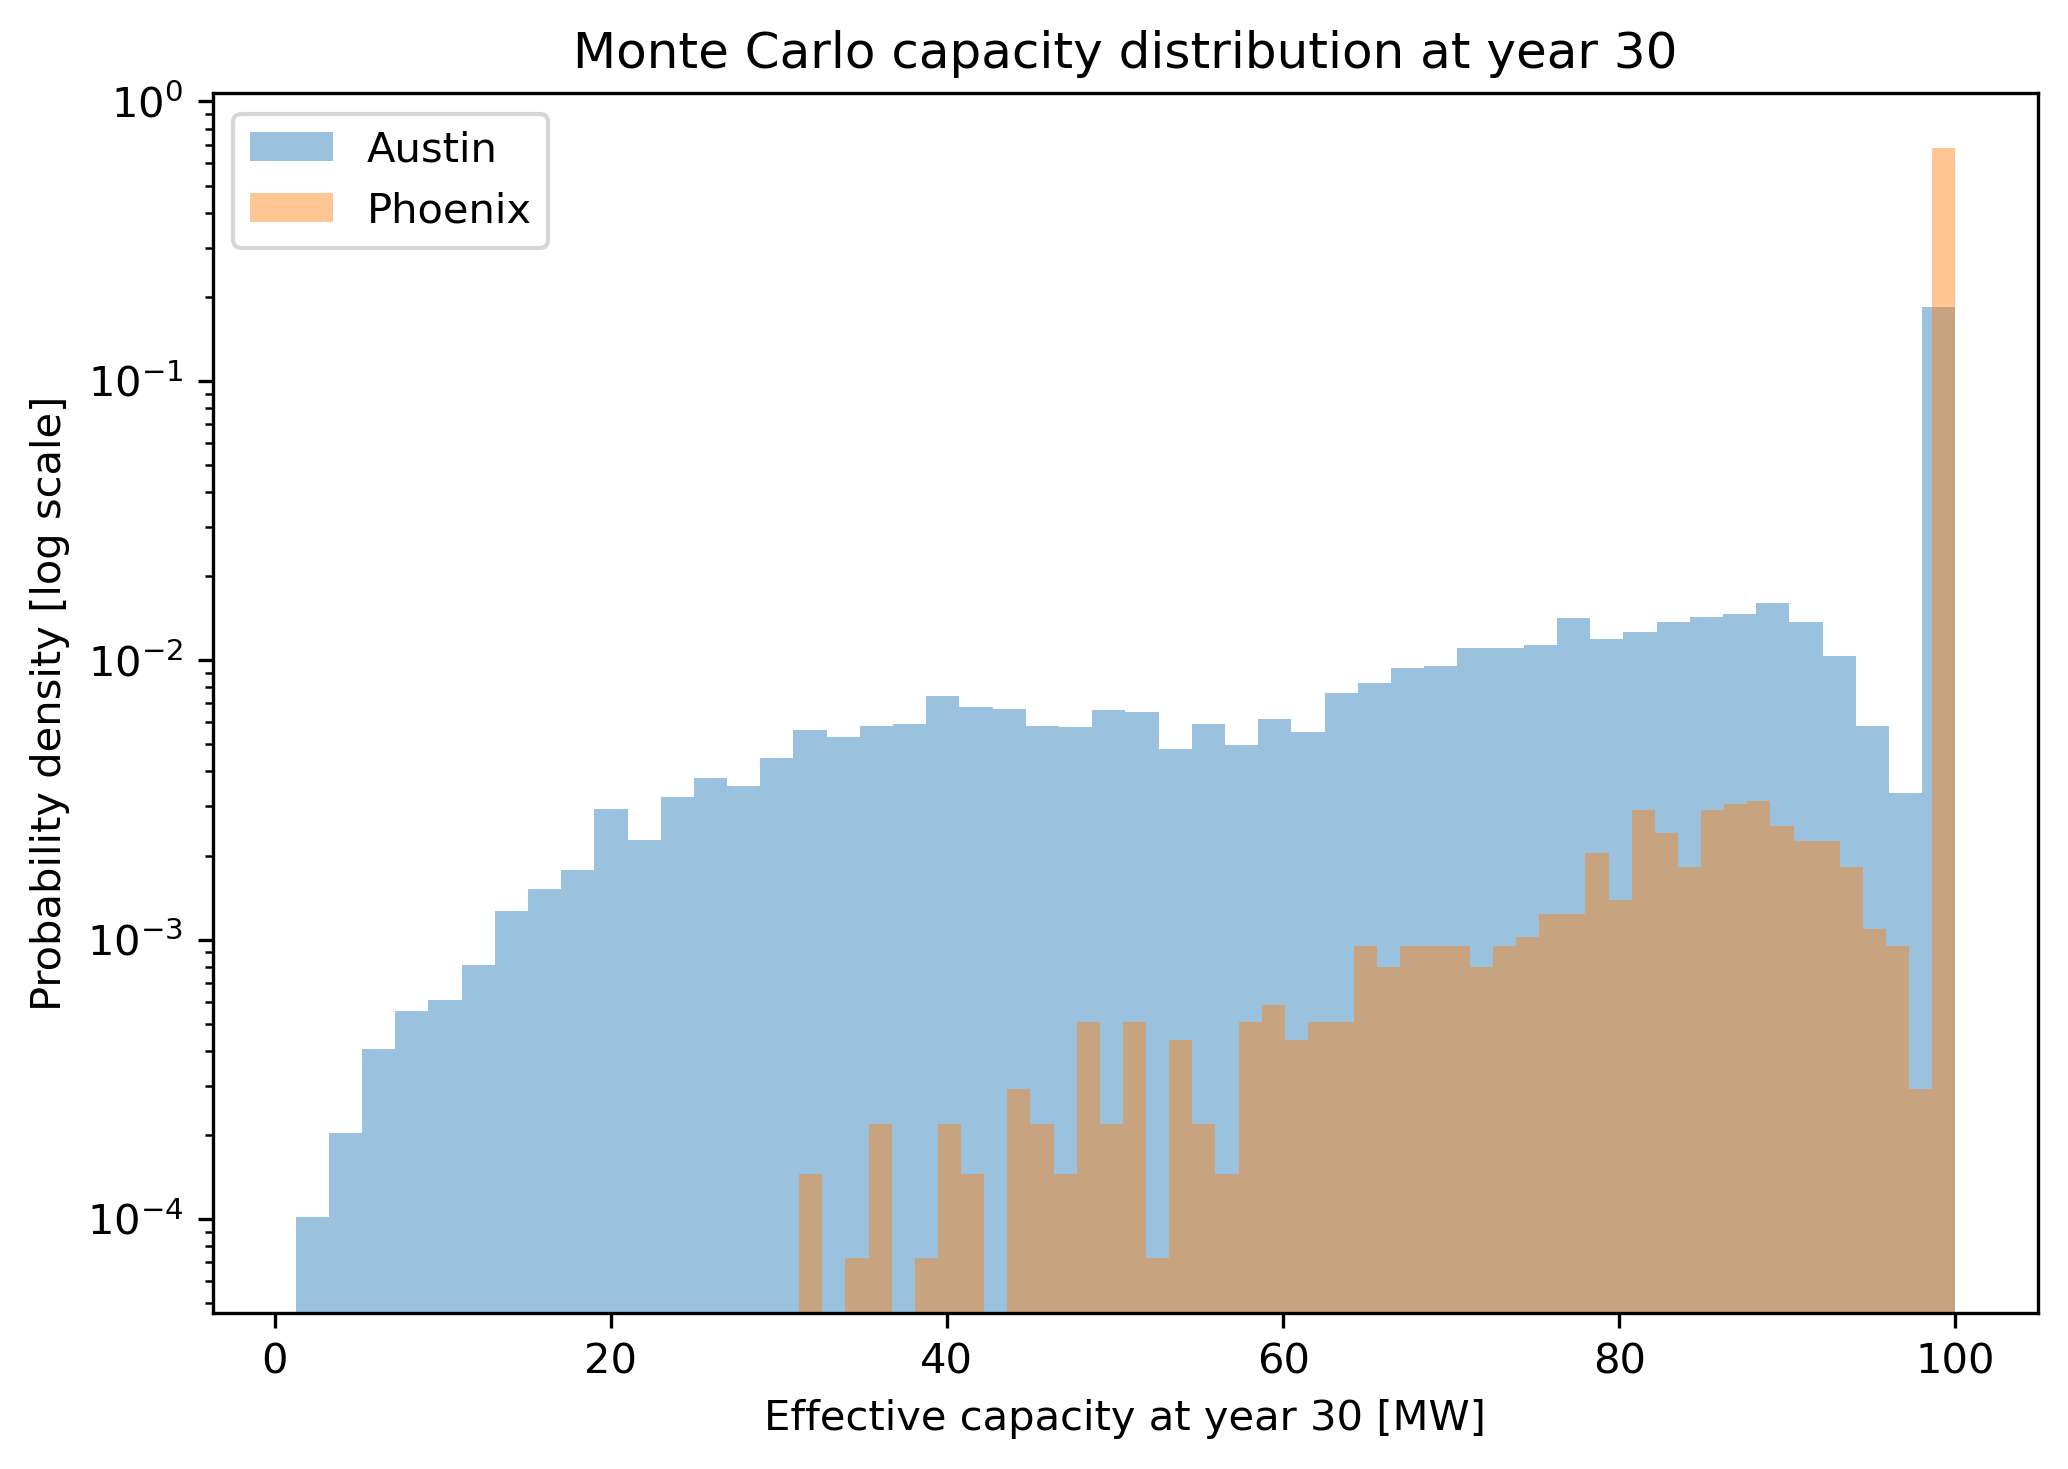
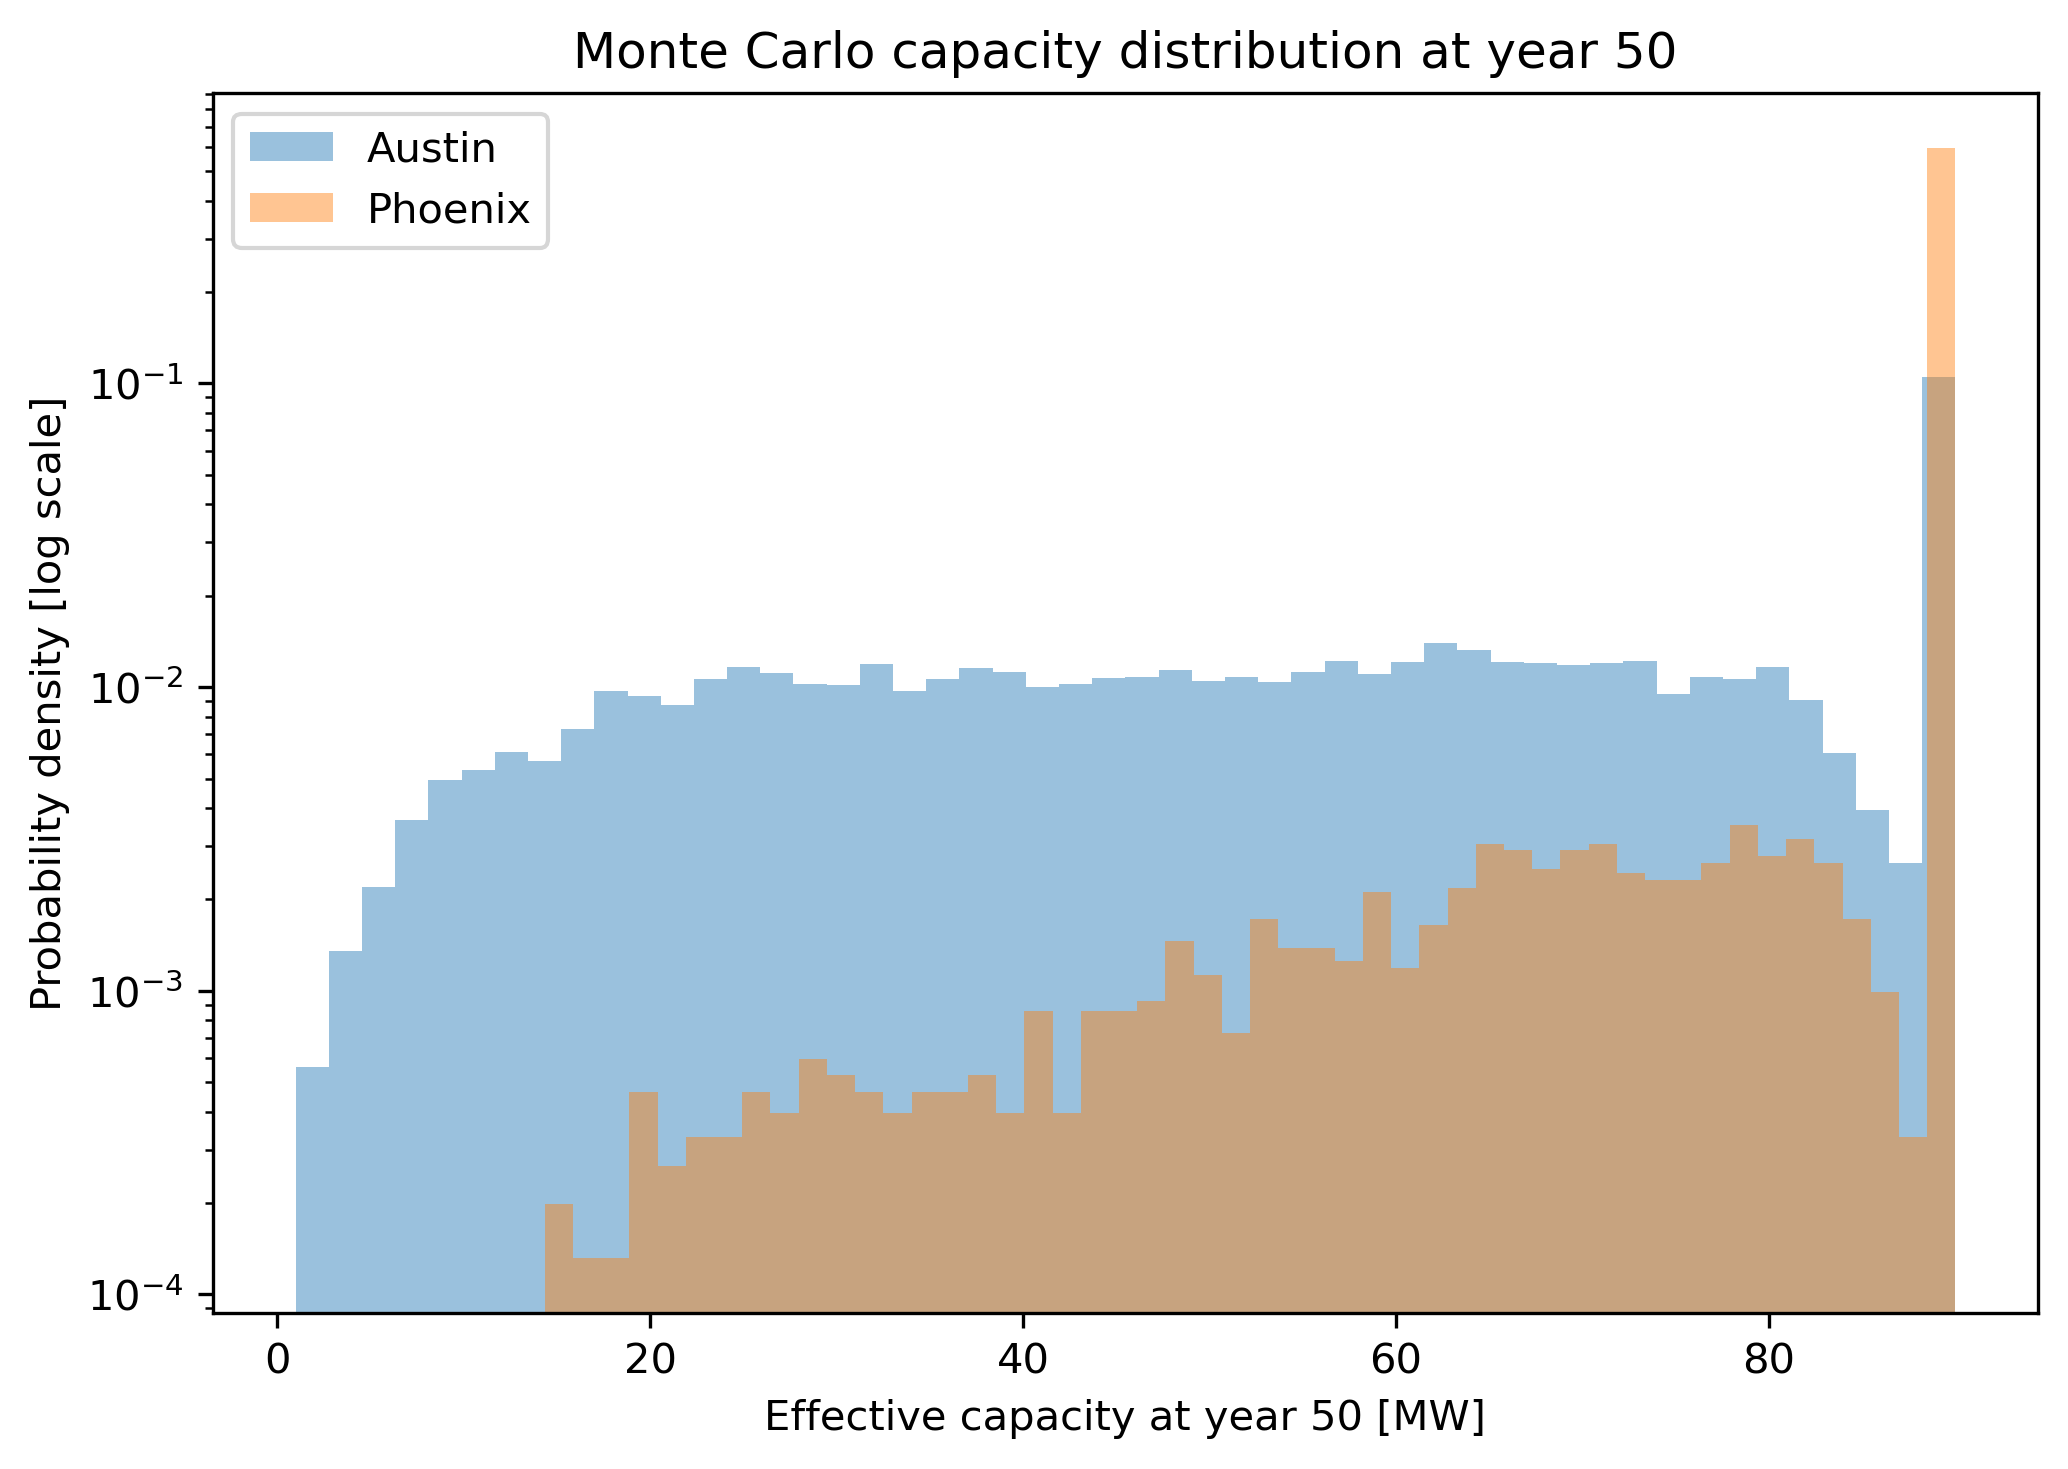
figures 50 year

diff --git a/3 - New Pipeline - 50 years mod.py b/3 - New Pipeline - 50 years mod.py
@@ -476,7 +476,7 @@ N_SIMS
 
 # ## Austin vs Phoenix at evaluation year
 
-evaluation_year = 30
+evaluation_year = 50
 
 austin_eval = mc_austin[
     mc_austin["year"] == evaluation_year
@@ -666,6 +666,8 @@ plt.ylabel(f"Effective capacity at year {evaluation_year} [MW]")
 plt.title(f"Monte Carlo capacity distribution at year {evaluation_year}")
 plt.grid(axis="y", alpha=0.3)
 plt.tight_layout()
+plt.savefig(FIG_DIR / "Fig08_austin_vs_phoenix_boxplot_50y.png", dpi=300, bbox_inches="tight")
+plt.savefig(FIG_DIR / "Fig08_austin_vs_phoenix_boxplot_50y.pdf", dpi=300, bbox_inches="tight")
 plt.show()
 
 
@@ -766,7 +768,7 @@ print("Saved Results/mc_by_area_50y.pkl")
 # In[35]:
 
 
-evaluation_year=30
+evaluation_year=50
 
 
 # In[36]:
@@ -796,6 +798,10 @@ plt.ylabel(f"Effective capacity at year {evaluation_year} [MW]")
 plt.title(f"Effect of module area on hail outcomes: Austin")
 plt.grid(axis="y", alpha=0.3)
 plt.tight_layout()
+
+plt.savefig(FIG_DIR / "Fig10_module_area_boxplot_50y.png", dpi=300, bbox_inches="tight")
+plt.savefig(FIG_DIR / "Fig10_module_area_boxplot_50y.pdf", dpi=300, bbox_inches="tight")
+
 plt.show()
 
 
@@ -835,7 +841,7 @@ area_summary
 
 # ## Summary by module-area case at evaluation year
 
-evaluation_year = 30
+evaluation_year = 50
 
 area_summary = []
 i=0
@@ -1319,9 +1325,6 @@ plt.show()
 
 
 # In[ ]:
-
-
-
 
 
 # In[ ]:
